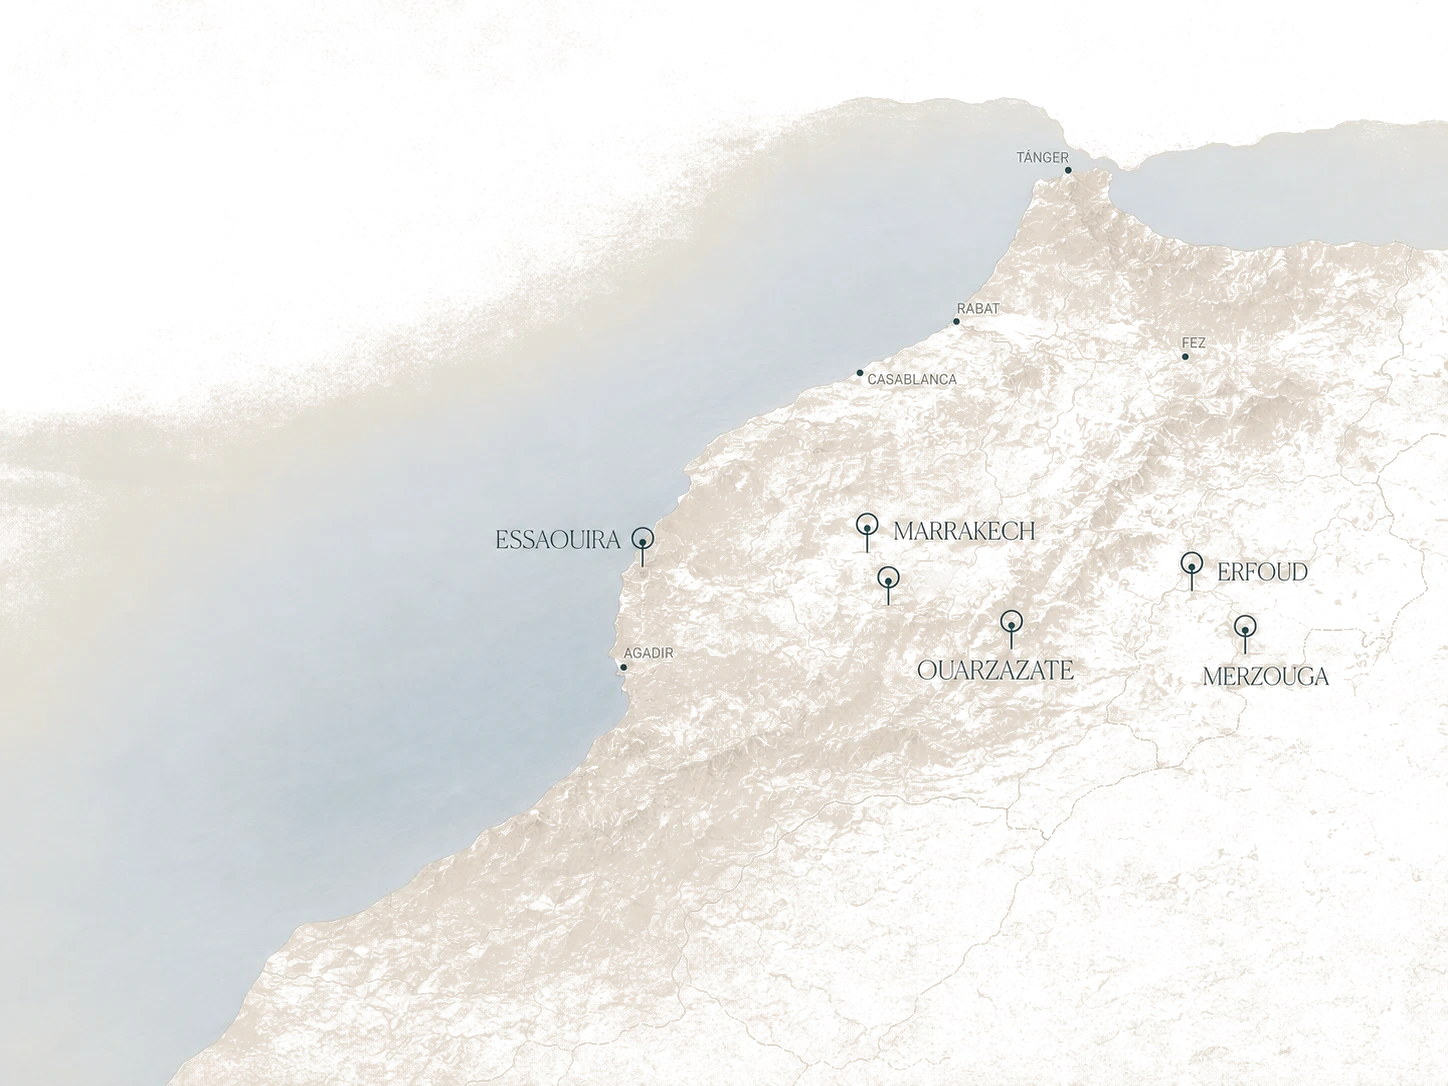
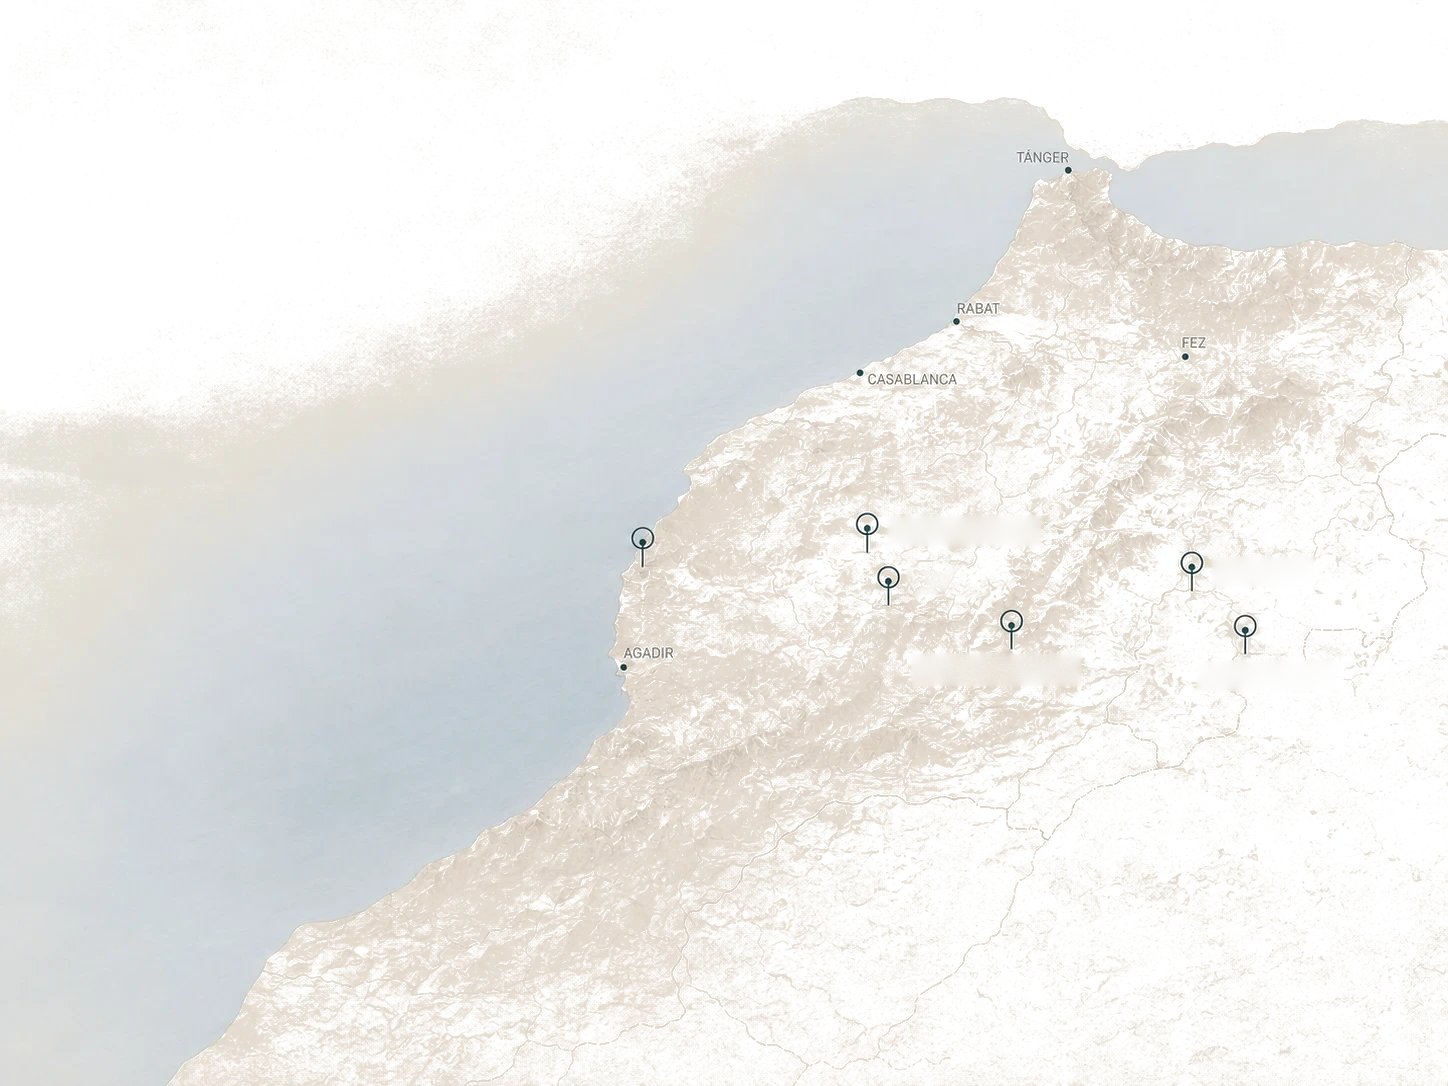
feat(mapa): los rótulos de las ciudades salen de la imagen y pasan a HTML
Los nombres de Essaouira, Marrakech, Ouarzazate, Erfoud y Merzouga estaban
quemados en `mapa-kavan-alpha.webp`, así que su tipografía, cuerpo y tinta
quedaban fuera de alcance: cuerpo fijo que no escalaba en móvil, texto blando
en pantallas retina, y Zagora y Agafay —que nunca llegaron dibujadas—
imitándolos a ojo desde CSS. Eran dos sistemas para un mismo rótulo y no
cuadraban.

`scripts/mapa/borrar-rotulos.py` los borra del archivo difundiendo el
rectángulo completo, no los píxeles por debajo de un umbral: filtrar por
luminancia dejaba el perfil antialiaseado asomando, que es justo lo que pasó
con AGAFAY en 810ce68. Encima repone grano medido como alta frecuencia del
entorno, para no texturizar el mar de Essaouira, que es liso de origen.
`scripts/mapa/medir-rotulos.py` es la herramienta que localiza las cajas si
la cartografía cambia. Las chinchetas dibujadas y los rótulos de referencia
(Tánger, Rabat, Casablanca, Fez, Agadir) se conservan.

Los siete nombres se reponen con una sola clase, `.mmap-rotulo`, y tres
colocaciones que reproducen las distancias del dibujo original. Desaparecen
los casos especiales de Zagora y Agafay. El `alt` deja de enumerar ciudades
que ya no están en la imagen; el nombre accesible sigue en la chincheta.

diff --git a/src/components/travel/MoroccoMap.tsx b/src/components/travel/MoroccoMap.tsx
@@ -8,24 +8,32 @@ import './MoroccoMap.css'
 /* ---------------------------------------------------------------------------
    Mapa de Marruecos con las ciudades del catálogo.
 
-   El mapa es una imagen: relieve, costa y rótulos de referencia (Tánger,
-   Rabat, Casablanca, Fez, Agadir) vienen ya dibujados. Las chinchetas son
-   HTML y se superponen a la imagen para conservar su interacción.
+   El mapa es una imagen: relieve, costa, las chinchetas y los rótulos de
+   referencia (Tánger, Rabat, Casablanca, Fez, Agadir) vienen ya dibujados.
 
-   Las posiciones de las chinchetas están medidas sobre la propia imagen (el
-   vástago de cada una, por análisis de píxeles) y van en porcentaje, así que
-   aguantan cualquier tamaño de pantalla. Si se cambia la imagen del mapa hay
-   que volver a medirlas.
+   Los nombres de las ciudades del catálogo NO. Estaban quemados en el archivo
+   y eso los dejaba fuera de alcance: cuerpo fijo, sin escalar en móvil, blandos
+   en pantallas retina y con Zagora y Agafay —que nunca estuvieron dibujadas—
+   imitándolos desde CSS. Se borraron del WebP (`scripts/mapa/borrar-rotulos.py`)
+   y se reponen aquí, los siete con el mismo tratamiento.
+
+   Las posiciones están medidas sobre la propia imagen (la base del vástago de
+   cada chincheta, por análisis de píxeles) y van en porcentaje, así que
+   aguantan cualquier tamaño de pantalla. `lado` reproduce la colocación
+   original del rótulo respecto a su chincheta. Si se cambia la imagen del mapa
+   hay que volver a medirlo todo.
 --------------------------------------------------------------------------- */
 
-const PUNTOS: Record<string, { x: number; y: number }> = {
-  essaouira: { x: 44.3, y: 52.1 },
-  marrakech: { x: 59.8, y: 50.8 },
-  agafay: { x: 61.3, y: 55.6 },
-  ouarzazate: { x: 69.8, y: 59.7 },
-  zagora: { x: 76.6, y: 66.3 },
-  erfoud: { x: 82.3, y: 54.3 },
-  merzouga: { x: 86.0, y: 60.1 },
+type Lado = 'izquierda' | 'derecha' | 'abajo'
+
+const PUNTOS: Record<string, { x: number; y: number; lado: Lado }> = {
+  essaouira: { x: 44.3, y: 52.1, lado: 'izquierda' },
+  marrakech: { x: 59.8, y: 50.8, lado: 'derecha' },
+  agafay: { x: 61.3, y: 55.6, lado: 'derecha' },
+  ouarzazate: { x: 69.8, y: 59.7, lado: 'abajo' },
+  zagora: { x: 76.6, y: 66.3, lado: 'abajo' },
+  erfoud: { x: 82.3, y: 54.3, lado: 'derecha' },
+  merzouga: { x: 86.0, y: 60.1, lado: 'abajo' },
 }
 
 const ZAGORA = {
@@ -82,25 +90,37 @@ export function MoroccoMap() {
         <img
           className="mmap-image"
           src="/images/mapa-kavan-alpha.webp"
-          alt="Mapa de Marruecos con Tánger, Rabat, Casablanca, Fez, Agadir, Essaouira, Marrakech, Agafay, Ouarzazate, Zagora, Erfoud y Merzouga"
+          alt="Mapa de Marruecos: la costa atlántica, el relieve del Atlas y las ciudades de referencia Tánger, Rabat, Casablanca, Fez y Agadir"
           width={1448}
           height={1086}
           loading="lazy"
           decoding="async"
         />
 
+        {/* Zagora no está dibujada en el mapa: su chincheta se compone aquí. */}
         <span className="mmap-zagora-marker" aria-hidden="true">
           <span className="mmap-added-pin">
             <span className="mmap-added-pin-dot" />
-            <span className="mmap-added-pin-label">Zagora</span>
           </span>
         </span>
 
-        {/* Agafay venía dibujada en el mapa con rótulo secundario, en gris y a
-            la mitad de cuerpo que el resto. El rótulo original se retiró del
-            propio archivo y se repone aquí con el tratamiento de las demás
-            ciudades; la chincheta dibujada se conserva. */}
-        <span className="mmap-agafay-label" aria-hidden="true">Agafay</span>
+        {/* Los rótulos son decorativos: el nombre accesible de cada ciudad vive
+            en el `aria-label` de su chincheta, y en móvil, donde las chinchetas
+            se retiran, lo aporta el carrusel de destinos. Se pintan siempre,
+            también en móvil, porque forman parte de la cartografía. */}
+        {conPunto.map((c) => {
+          const p = PUNTOS[c.slug]
+          return (
+            <span
+              key={c.slug}
+              className={`mmap-rotulo is-${p.lado}`}
+              style={{ left: `${p.x}%`, top: `${p.y}%` }}
+              aria-hidden="true"
+            >
+              {c.name}
+            </span>
+          )
+        })}
 
         {conPunto.map((c) => {
           const p = PUNTOS[c.slug]

diff --git a/src/components/travel/MoroccoMap.css b/src/components/travel/MoroccoMap.css
@@ -120,8 +120,15 @@
   background: currentColor;
 }
 
-.mmap-added-pin-label,
-.mmap-agafay-label {
+/* ---------- Rótulos ----------
+   Única fuente de verdad tipográfica del mapa: los siete nombres del catálogo
+   salen de aquí, ya no del archivo de imagen. `left`/`top` apuntan a la base
+   del vástago de cada chincheta, y las tres colocaciones reproducen las
+   distancias del dibujo original (28 px al costado, 8 px por debajo, sobre
+   1448 px de ancho de imagen). */
+
+.mmap-rotulo {
+  position: absolute;
   font-family: var(--font-display);
   font-size: var(--mmap-rotulo);
   font-weight: var(--weight-heading);
@@ -130,25 +137,34 @@
   text-transform: uppercase;
   white-space: nowrap;
   color: var(--mmap-tinta);
-}
-
-.mmap-added-pin-label {
-  position: absolute;
-  top: calc(50% + var(--mmap-pin-vastago) + var(--mmap-img) * 8 / 1448);
-  left: 50%;
-  transform: translateX(-50%);
-}
-
-/* Agafay lleva el rótulo al costado de su chincheta, como Marrakech o Erfoud:
-   `left`/`top` apuntan al centro del círculo dibujado y el hueco reproduce el
-   del resto de rótulos (17 px sobre 1448 px de imagen). */
-.mmap-agafay-label {
-  position: absolute;
-  left: 61.3%;
-  top: 53.1%;
-  padding-left: calc(var(--mmap-img) * 28 / 1448);
-  transform: translateY(calc(-50% + var(--mmap-img) * 7 / 1448));
   pointer-events: none;
+}
+
+/* Al costado: el rótulo se centra en el círculo, que queda un vástago por
+   encima del punto de anclaje, con los 7 px de compensación óptica del dibujo
+   (las versales pesan por debajo de su centro geométrico). */
+.mmap-rotulo.is-derecha,
+.mmap-rotulo.is-izquierda {
+  transform: translateY(
+    calc(-50% - var(--mmap-pin-vastago) + var(--mmap-img) * 7 / 1448)
+  );
+}
+
+.mmap-rotulo.is-derecha {
+  padding-left: calc(var(--mmap-img) * 28 / 1448);
+}
+
+.mmap-rotulo.is-izquierda {
+  padding-right: calc(var(--mmap-img) * 28 / 1448);
+  transform: translate(
+    -100%,
+    calc(-50% - var(--mmap-pin-vastago) + var(--mmap-img) * 7 / 1448)
+  );
+}
+
+.mmap-rotulo.is-abajo {
+  padding-top: calc(var(--mmap-img) * 8 / 1448);
+  transform: translateX(-50%);
 }
 
 /* Anillo que late al señalar, el mismo gesto que el botón de asesoría. */

diff --git a/scripts/mapa/borrar-rotulos.py b/scripts/mapa/borrar-rotulos.py
@@ -1,0 +1,97 @@
+"""Borra del mapa los rótulos quemados de las ciudades con chincheta.
+
+Difunde el rectángulo completo (Laplace sobre el anillo de contorno), no sólo
+los píxeles por debajo de un umbral: filtrar por luminancia deja el perfil
+antialiaseado asomando por detrás del rótulo HTML que lo sustituye. Encima
+repone el grano del entorno, medido como alta frecuencia para que el parche no
+gane textura donde el original es liso, como el mar de Essaouira.
+
+Se probó también clonar relieve de otra zona del mapa dentro del hueco. Se
+descartó: la corrección de tono necesaria para encajar el clon o le comía la
+estructura, o le dejaba una mancha de otro color. El relieve del mapa tiene
+llanos amplios, así que el parche difundido pasa por uno más.
+
+Las cajas están medidas sobre `public/images/mapa-kavan-alpha.webp` a 1448x1086.
+Si se cambia la imagen del mapa hay que volver a medirlas.
+"""
+from pathlib import Path
+
+import numpy as np
+from PIL import Image
+
+ORIGEN = 'public/images/mapa-kavan-alpha.webp'
+DESTINO = 'output/mapa-limpio.webp'
+
+# x0, y0, x1, y1 inclusive, ya con holgura sobre la tinta medida.
+ROTULOS = {
+    'essaouira': (489, 523, 627, 555),
+    'marrakech': (887, 515, 1041, 546),
+    'ouarzazate': (910, 653, 1081, 686),
+    'erfoud': (1211, 556, 1314, 587),
+    'merzouga': (1196, 660, 1336, 691),
+}
+
+MARGEN = 6  # anillo de contorno que alimenta la difusión
+
+
+def difundir(canal: np.ndarray, caja: tuple[int, int, int, int]) -> np.ndarray:
+    """Resuelve Laplace dentro de la caja con el anillo exterior como frontera."""
+    x0, y0, x1, y1 = caja
+    sx0, sy0 = x0 - MARGEN, y0 - MARGEN
+    sx1, sy1 = x1 + MARGEN, y1 + MARGEN
+    zona = canal[sy0:sy1 + 1, sx0:sx1 + 1].astype(np.float64)
+
+    hueco = np.zeros(zona.shape, dtype=bool)
+    hueco[MARGEN:-MARGEN, MARGEN:-MARGEN] = True
+
+    # Arranque: media del anillo, para que converja en pocas pasadas.
+    zona[hueco] = zona[~hueco].mean()
+
+    for _ in range(4000):
+        vecinos = np.zeros_like(zona)
+        vecinos[1:-1, 1:-1] = (
+            zona[:-2, 1:-1] + zona[2:, 1:-1] + zona[1:-1, :-2] + zona[1:-1, 2:]
+        ) / 4
+        zona[hueco] = vecinos[hueco]
+
+    canal[sy0:sy1 + 1, sx0:sx1 + 1] = np.clip(zona, 0, 255).round().astype(canal.dtype)
+    return canal
+
+
+def sigma_del_grano(datos: np.ndarray, caja: tuple[int, int, int, int]) -> float:
+    """Alta frecuencia de la banda de terreno inmediatamente superior.
+
+    La desviación en bruto mediría también el degradado del relieve y metería
+    ruido visible donde el original es liso.
+    """
+    x0, y0, x1, _ = caja
+    banda = datos[y0 - 14:y0 - 2, x0:x1 + 1, :3].astype(np.float64).mean(axis=2)
+    suave = (banda[:-2, 1:-1] + banda[2:, 1:-1] + banda[1:-1, :-2] + banda[1:-1, 2:]) / 4
+    return min(float((banda[1:-1, 1:-1] - suave).std()), 2.2)
+
+
+def main() -> None:
+    Path(DESTINO).parent.mkdir(parents=True, exist_ok=True)
+    im = Image.open(ORIGEN).convert('RGBA')
+    datos = np.asarray(im).copy()
+    rng = np.random.default_rng(7)
+
+    for nombre, caja in ROTULOS.items():
+        x0, y0, x1, y1 = caja
+        for c in range(4):  # incluye alfa: el rótulo también marcaba la máscara
+            datos[..., c] = difundir(datos[..., c], caja)
+
+        sigma = sigma_del_grano(datos, caja)
+        alto, ancho = y1 - y0 + 1, x1 - x0 + 1
+        # Mismo ruido en los tres canales, para no teñir el parche.
+        ruido = rng.normal(0.0, sigma, (alto, ancho))[..., None]
+        parche = datos[y0:y1 + 1, x0:x1 + 1, :3].astype(np.float64) + ruido
+        datos[y0:y1 + 1, x0:x1 + 1, :3] = np.clip(parche, 0, 255).round().astype(np.uint8)
+        print(f'{nombre}: caja {caja}, grano {sigma:.2f}')
+
+    Image.fromarray(datos, 'RGBA').save(DESTINO, format='WEBP', quality=92, method=6)
+    print('escrito', DESTINO)
+
+
+if __name__ == '__main__':
+    main()

diff --git a/scripts/mapa/medir-rotulos.py b/scripts/mapa/medir-rotulos.py
@@ -1,0 +1,52 @@
+"""Localiza los rótulos quemados en el mapa: agrupa la tinta oscura en cajas."""
+from collections import deque
+
+import numpy as np
+from PIL import Image
+
+im = Image.open('public/images/mapa-kavan-alpha.webp').convert('RGBA')
+a = np.asarray(im).astype(np.int16)
+rgb, alpha = a[..., :3], a[..., 3]
+lum = rgb @ np.array([0.2126, 0.7152, 0.0722])
+
+# Tinta: oscura y opaca. El umbral deja fuera el relieve y el sombreado del mar.
+mask = (lum < 140) & (alpha > 120)
+print('pixeles de tinta:', int(mask.sum()))
+
+# Dilatación horizontal para que las letras de una palabra queden pegadas.
+d = mask.copy()
+for k in range(1, 14):
+    d[:, k:] |= mask[:, :-k]
+    d[:, :-k] |= mask[:, k:]
+for k in range(1, 4):
+    d[k:, :] |= mask[:-k, :]
+    d[:-k, :] |= mask[k:, :]
+
+h, w = d.shape
+seen = np.zeros_like(d)
+cajas = []
+ys, xs = np.nonzero(d)
+for y0, x0 in zip(ys, xs):
+    if seen[y0, x0]:
+        continue
+    q = deque([(y0, x0)])
+    seen[y0, x0] = True
+    miny = maxy = y0
+    minx = maxx = x0
+    n = 0
+    while q:
+        y, x = q.popleft()
+        n += 1
+        miny, maxy = min(miny, y), max(maxy, y)
+        minx, maxx = min(minx, x), max(maxx, x)
+        for dy, dx in ((1, 0), (-1, 0), (0, 1), (0, -1)):
+            ny, nx = y + dy, x + dx
+            if 0 <= ny < h and 0 <= nx < w and d[ny, nx] and not seen[ny, nx]:
+                seen[ny, nx] = True
+                q.append((ny, nx))
+    if n > 250:
+        cajas.append((minx, miny, maxx, maxy, n))
+
+cajas.sort(key=lambda c: -c[4])
+for minx, miny, maxx, maxy, n in cajas[:25]:
+    print(f'x {minx:4d}-{maxx:4d}  y {miny:4d}-{maxy:4d}  ancho {maxx-minx:4d} alto {maxy-miny:3d}  px {n}')
